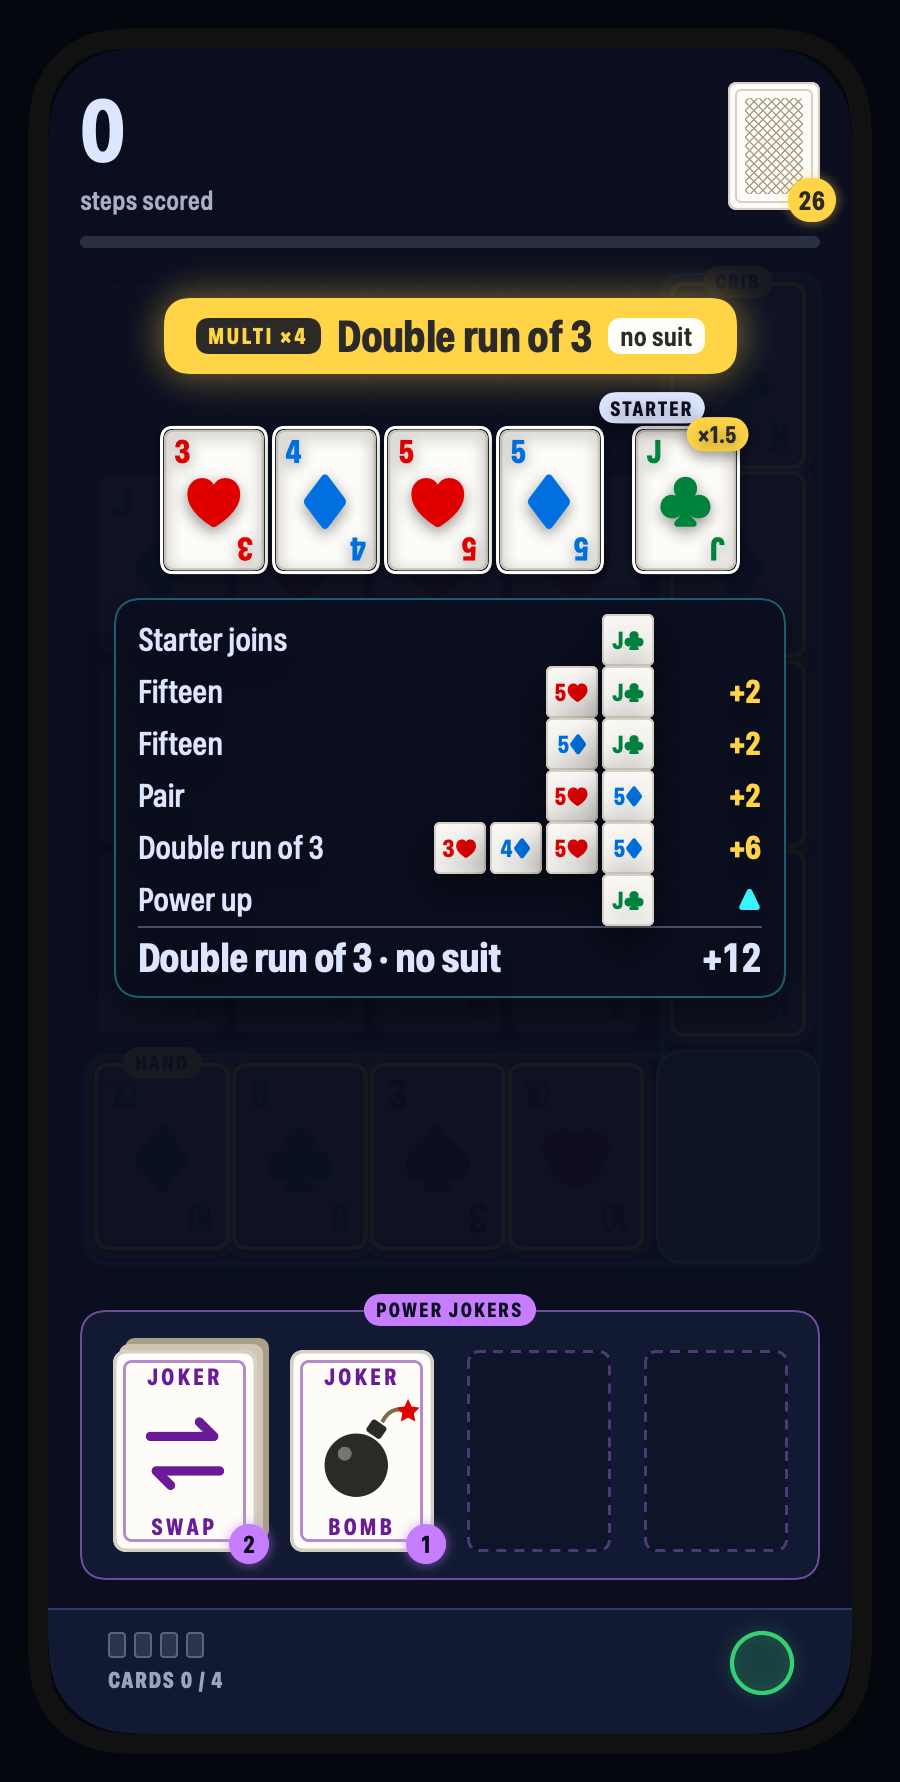
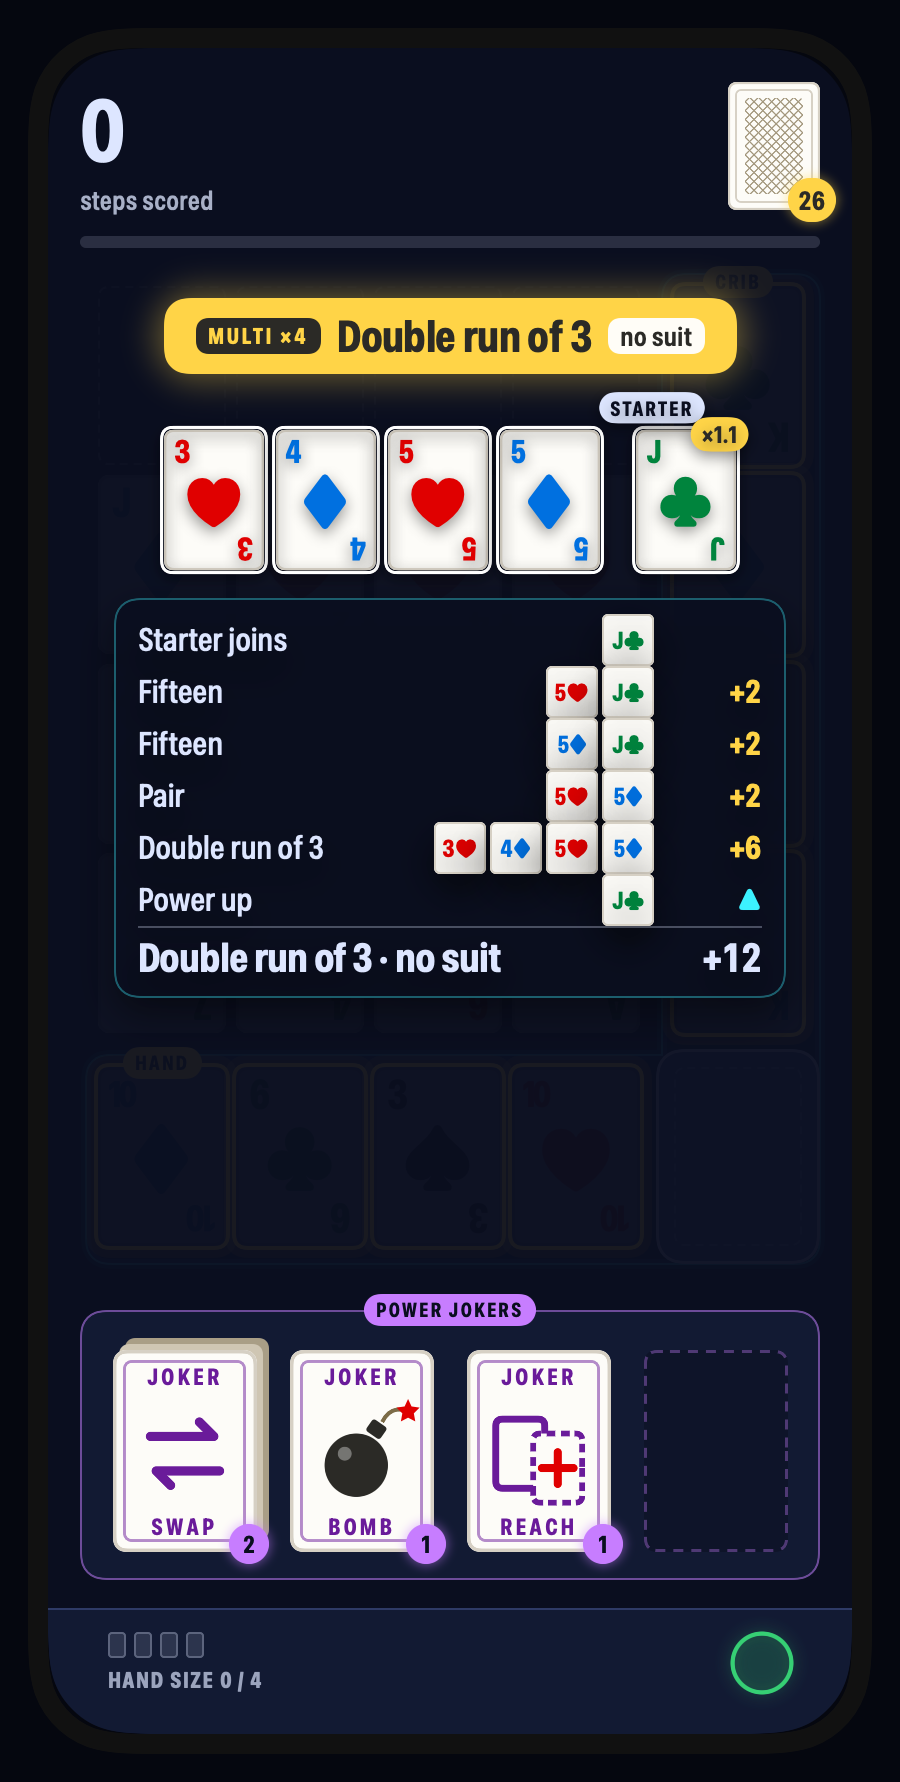
No edge power cap (match r21); fresh screenshots with the deal
capPercent 0. Sim, 1,000 turns, seed 1, dealer: medium 540 steps a turn
(was 270), epic prizes 65% (was 18%); weak 302, strong 647. A cap may
return as a visible mechanic that jokers change. README screenshots
retaken at 0.12.0, with the deal screen added.

Changed region(s): [[0.4978, 0.7407, 0.7156, 0.8951], [0.1244, 0.9259, 0.28, 0.9568], [0.7778, 0.216, 0.8089, 0.2469]]

diff --git a/swift/App/Shared/MatchTurnView.swift b/swift/App/Shared/MatchTurnView.swift
@@ -517,7 +517,7 @@ struct InfoCard: View {
     private var text: (String, [String]) {
         let m = session.config?.rules.match
         let pct = m?.edgePower.percentPerLevel ?? 50
-        let power = "Each time it scores, it powers up: every level multiplies the sets it's in by another ×\(session.multiplierText(percent: 100 + pct).dropFirst()), up to \(session.multiplierText(percent: m?.edgePower.capPercent ?? 200))."
+        let power = "Each time it scores, it powers up: every level multiplies the sets it's in by another ×\(session.multiplierText(percent: 100 + pct).dropFirst())\((m?.edgePower.capPercent ?? 0) > 0 ? ", up to " + session.multiplierText(percent: m!.edgePower.capPercent) : ", with no limit")."
         switch topic {
         case .hand:
             return ("Your hand", ["The 4 cards you kept from the deal. They're edge cards: they stay all turn and never clear.",

diff --git a/swift/Sources/CribMaze/MatchTurn.swift b/swift/Sources/CribMaze/MatchTurn.swift
@@ -150,7 +150,7 @@ public struct SetValue: Sendable {
 // MARK: - The match turn
 
 public struct MatchTurn: Sendable {
-    public static let rulesVersion = "match-r20"
+    public static let rulesVersion = "match-r21"
     public let config: Config
     public private(set) var state: MatchState
     public var dice: Dice

diff --git a/cribbage/minigames/rules.md b/cribbage/minigames/rules.md
@@ -1,6 +1,6 @@
 # Crib Maze: Rules
 
-Status: draft 5, 2026-11-15. Match turns follow match rules r20. Values marked "to tune" are starting guesses that the simulator and playtesting will change. Anything not designed yet is marked "Not designed yet". Design reasons and open questions are in [concept.md](concept.md).
+Status: draft 5, 2026-11-15. Match turns follow match rules r21. Values marked "to tune" are starting guesses that the simulator and playtesting will change. Anything not designed yet is marked "Not designed yet". Design reasons and open questions are in [concept.md](concept.md).
 
 ## Overview
 
@@ -64,7 +64,7 @@ In classic cribbage you'd count your hand after pegging. In Crib Maze, each play
 
 The computer players' turns come first, as a quick sequence of results (steps, best set and prize), with their hands kept face down until after pegging. Then you play yours, knowing what you have to beat. If you're the dealer, you go last, as in the show.
 
-These are match rules r20, the version in the beta app, Noddy Yookerspiel. The web [match turn mock](mocks/match-turn.html) is frozen at r16. Each rules version is listed in [mocks/README.md](mocks/README.md#match-turn-rules-versions).
+These are match rules r21, the version in the beta app, Noddy Yookerspiel. The web [match turn mock](mocks/match-turn.html) is frozen at r16. Each rules version is listed in [mocks/README.md](mocks/README.md#match-turn-rules-versions).
 
 ```
 Match board (one player's turn)
@@ -171,7 +171,7 @@ The set's grid cards clear, the cards above them fall, and the stock fills the g
 Your hand, crib and starter are edge cards. They stay, and they power up. Power multiplies the sets they're in, so there's one score: steps.
 
 - Each edge card starts the turn at power 0.
-- A set with powered edge cards multiplies its combos. Add up the power levels of its edge cards; the multiplier is 1 plus 0.1 for each level (level 1 is ×1.1, level 3 is ×1.3), up to ×1.5 (to tune). Each card's chip shows its own multiplier, so you can watch it climb. Round to the nearest step. Cards left over aren't multiplied.
+- A set with powered edge cards multiplies its combos. Add up the power levels of its edge cards; the multiplier is 1 plus 0.1 for each level (level 1 is ×1.1, level 3 is ×1.3), with no limit (r21). A cap may come back as a mechanic you can see and change with jokers. Each card's chip shows its own multiplier, so you can watch it climb. Round to the nearest step. Cards left over aren't multiplied.
 - After a set scores, each edge card in it goes up one level. The starter is in a set only when it's part of a combo.
 - Power lasts the turn. Values: to tune (the mock has settings for the step per level, adding or multiplying levels, and the cap).
 
@@ -180,7 +180,7 @@ Your hand, crib and starter are edge cards. They stay, and they power up. Power 
 | 7-8, grid only | none | Fifteen, 2 | ×1 | 2 |
 | 5 from your hand, 10 from the grid | the 5 at level 3 | Fifteen, 2 | ×1.3 | 3 (2.6, rounded) |
 | 5 and 5 from your hand, 5 from the grid | levels 2 + 3 = 5 | Pair royal and fifteen, 8 | ×1.5 | 12 |
-| The same, later in the turn | levels 4 + 4 = 8 | Pair royal and fifteen, 8 | ×1.8, capped at ×1.5 | 12 |
+| The same, later in the turn | levels 4 + 4 = 8 | Pair royal and fifteen, 8 | ×1.8 | 14 (14.4, rounded) |
 | 7-8 from the grid, K from your hand | the K at level 2 | Fifteen, 2; K left over, −2 | ×1.2 on the 2 | 0 |
 | 7-8 from the grid, a joker-made 10★ ×1.25 | none | Fifteen, 2 | ×1.25 | 3 (2.5, rounded) |
 

diff --git a/README.md b/README.md
@@ -23,11 +23,13 @@ Steps from both kinds of play walk your token through a maze in place of a pegbo
 
 <table>
   <tr>
-    <td><img src="docs/images/turn.png" width="260" alt="A match turn: a 4 by 4 grid of cards, the crib down the side, the hand along the bottom, the starter in the corner, and the power jokers below"></td>
-    <td><img src="docs/images/pick.png" width="260" alt="Four cards picked across the top row, with the line under the board previewing fifteen, fifteen, pair and a double run for 12"></td>
-    <td><img src="docs/images/breakdown.png" width="260" alt="The score breakdown: the picked cards and the starter in a row over a tally of each combo and its points"></td>
+    <td><img src="docs/images/deal.png" width="200" alt="The deal: the bot's 6 cards face down at the top, the crib's 4 spots with the ace of hearts thrown in, the deck beside them, a hint, and the player's 5 remaining cards fanned along the bottom"></td>
+    <td><img src="docs/images/turn.png" width="200" alt="A match turn: a 4 by 4 grid of cards, the crib down the side, the hand along the bottom, the starter in the corner, and the power jokers below"></td>
+    <td><img src="docs/images/pick.png" width="200" alt="Four cards picked across the top row, with the line under the board previewing fifteen, fifteen, pair and a double run for 12"></td>
+    <td><img src="docs/images/breakdown.png" width="200" alt="The score breakdown: the picked cards and the starter in a row over a tally of each combo and its points"></td>
   </tr>
   <tr>
+    <td>The deal: pick 2 for the crib</td>
     <td>A fresh match turn</td>
     <td>Picking a set of 4</td>
     <td>The score's breakdown</td>
@@ -40,7 +42,7 @@ Rendered from the beta (seed 2) with `--snapshot`; see `swift/App/Beta/Snapshot.
 
 | Game | What it is | Status |
 |---|---|---|
-| Noddy Yookerspiel | Cribbage with jokers: a scoring grid in place of counting hands, pegging as in classic cribbage, and a maze in place of the pegboard (design name: Crib Maze) | Mac beta 0.12.0 (the deal and the scoring grid), match rules r20, rules draft 5 |
+| Noddy Yookerspiel | Cribbage with jokers: a scoring grid in place of counting hands, pegging as in classic cribbage, and a maze in place of the pegboard (design name: Crib Maze) | Mac beta 0.12.0 (the deal and the scoring grid), match rules r21, rules draft 5 |
 | Classic cribbage | The classic game, sharing the same engine | Engine spec and fixtures; no app yet |
 
 ## Downloads

diff --git a/cribbage/minigames/concept.md b/cribbage/minigames/concept.md
@@ -356,6 +356,8 @@ We lean toward Fifteen Two or Pegway for an app name, and Crib Maze as the descr
 | 2026-11-15 | A card counter shows how many cards a set can pick (the pick limit, `maxSet` for now). Some combos, jokers and prizes will raise it for a while; not designed yet |
 | 2026-11-15 | A score's breakdown plays over a row of its cards, flown up from the board with the starter on the right, so it always sits in the same place instead of away from the set. It waits for a tap at the end, and each line shows its cards. The mock still plays over the board |
 | 2026-11-15 | Match rules r20. Joker-made cards carry a multiplier (×1.05 40%, ×1.1 25%, ×1.25 18%, ×1.5 10%, ×2 5%, ×3 2%; their product capped at ×3), on top of edge power. Edge power grows 10% a level (was 50%) under the same ×1.5 cap: at 50% one level hit the cap, so later power-ups did nothing (Bruce's playtest). 1,000 turns, seed 1, dealer, medium bot: 269.6 steps a turn (r19 278.4); prizes common 52.5%, rare 29.8%, epic 17.7% (r19 58.6, 27.5, 13.9); edge power 25% of steps. A wider made table (mean ×1.38) gave 31% epic; edge steps of 10 to 25% with caps of ×2 to ×2.5 gave 40 to 91% epic |
+| 2026-11-15 | No edge power cap (r21). A cap comes back only as a mechanic the player can see in the footer and change with jokers. Without it, the medium bot scores 540 steps a turn (was 270 with the ×1.5 cap) and wins epic prizes in 65% of turns (was 18%); weak 302, strong 647 (1,000 turns each, seed 1, dealer). The prize thresholds need retuning |
+| 2026-11-15 | A joker inventory (`mocks/joker-inventory.html`) catalogues jokers, chips that sit on jokers, and other pieces, built and ideas alike, to ideate from |
 
 ## Open questions
 

diff --git a/cribbage/minigames/mocks/README.md b/cribbage/minigames/mocks/README.md
@@ -225,6 +225,7 @@ Every playtest run and event log carries `rules`, the match turn rules version, 
 | r13 | 2026-11-14 | A special joker from the teal joker is shuffled into this turn's stock; drawn onto the board, it joins the tray (mock v7) |
 | r14 | 2026-11-14 | 0 to n jokers a round, decided at the shuffle (setting; 0 to 2 by default), each amber or teal. Cards a joker makes are new cards, marked ★, kept for the game. A special joker drawn onto the board waits until tapped, can't be part of a set, and is used up where it lies (mock v7) |
 | r20 | 2026-11-15 | Joker-made cards carry a small multiplier (mostly ×1.05 to ×1.25, up to ×3). Edge power grows 10% a level (was 50%), still capped at ×1.5. Noddy Yookerspiel only; the web mock stays at r16 |
+| r21 | 2026-11-15 | Edge power has no cap (was ×1.5). A cap may return as a visible mechanic jokers can change. Noddy Yookerspiel only |
 | r19 | 2026-11-15 | New power joker, the reach: sets pick 1 or 2 more cards for 10 to 45 seconds. Everyone starts with 1. Noddy Yookerspiel only; the web mock stays at r16 |
 | r18 | 2026-11-15 | Flushes count like a classic hand: 4 picked cards of one suit score whatever the starter's suit. The starter never costs a set points. Crib Maze Beta only; the web mock stays at r16 |
 | r17 | 2026-11-15 | A set picks 2 to 4 cards (was 5), plus the starter. Crib Maze Beta only; the web mock stays at r16 |

diff --git a/CHANGELOG.md b/CHANGELOG.md
@@ -8,9 +8,13 @@ warped-cards' changes, newest first. Versions are `major.minor.patch`, pre-1.0.
 
 - Each turn starts with a deal at the table: the bot's cards face down across the top, the crib's 4 spots and the deck in the middle, and your 6 held in a fan along the bottom. Tap 2 to throw them to the crib (tap one there to take it back). Once you throw, the bot's 2 land face down, the starter is cut and turned, and the turn starts. It's untimed. Pause, or tap Hint, and a hint names one thing to look for and blinks the cards it's about. It never tells you what to throw. Turn the deal off in the settings to go straight to the grid.
 
+### Changed
+
+- Edge power has no limit: each level adds another ×0.1 to the sets its card is in, however high it climbs. Scores run much higher, so prizes come easier for now.
+
 ### Fixed
 
-- A score's breakdown shows how edge power adds up: each powered card as +0.2 and so on, then a "Power cap" line when the sum passes ×1.5, so Total multi matches.
+- A score's breakdown shows how edge power adds up: each powered card as +0.2 and so on, so Total multi matches.
 
 ## 0.11.0 — 2026-11-15
 

diff --git a/cribbage/minigames/engine.md b/cribbage/minigames/engine.md
@@ -477,7 +477,7 @@ All files live in [`cribbage/minigames/config/`](config/) and carry a `version`.
     "maxSet": 4, "flushMin": 4, "timerSeconds": 180, "cardBudget": 0,
     "leftOverCost": 2, "starterJoins": true, "handFlush": true,
     "clearBonus": { "kind": "steps", "amount": 10 },
-    "edgePower": { "start": 0, "step": 1, "percentPerLevel": 10, "combine": "add", "capPercent": 150 },
+    "edgePower": { "start": 0, "step": 1, "percentPerLevel": 10, "combine": "add", "capPercent": 0 },
     "prize": { "rareAt": 25, "epicAt": 31, "special": [["swapper", 45], ["bomb", 30], ["reach", 25]] }
   },
   "specials": {
